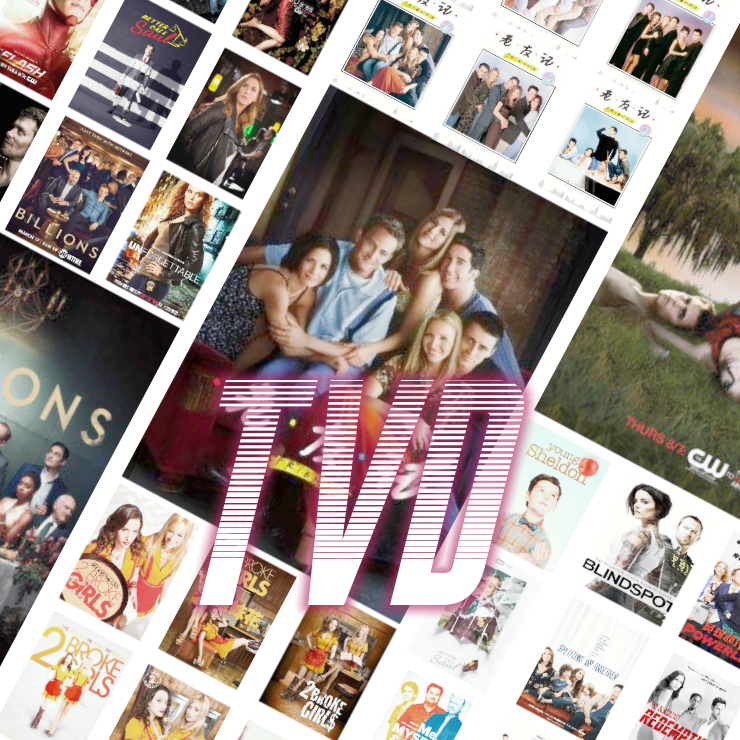
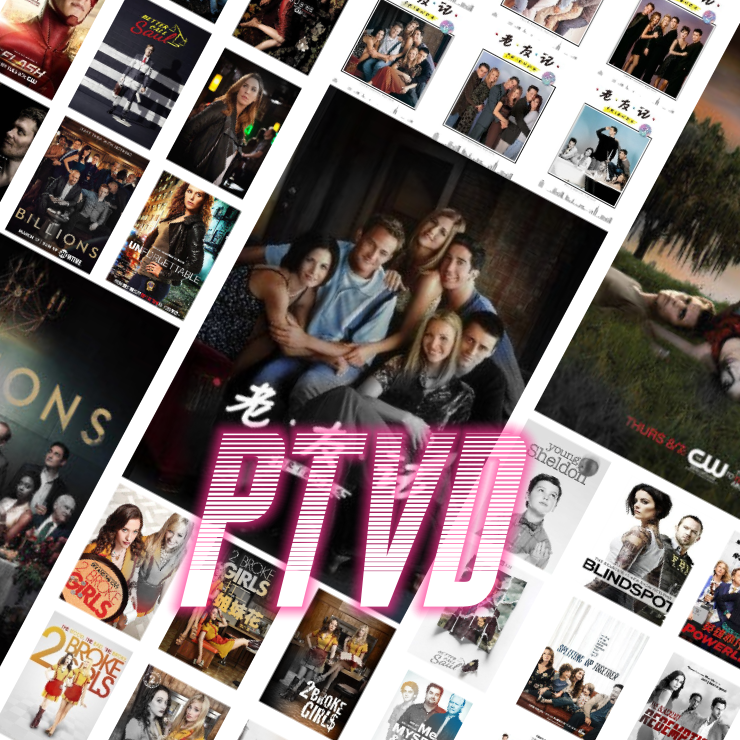
commit

diff --git a/index.html b/index.html
@@ -6,7 +6,7 @@
     <meta name="viewport" content="width=device-width, initial-scale=1, shrink-to-fit=no">
     <meta name="description" content="Start your development with TVD landing page.">
     <meta name="author" content="Chen Li">
-    <title>TencentARC-TVD</title>
+    <title>TencentARC-PTVD</title>
     <!-- font icons -->
     <link rel="stylesheet" href="assets/vendors/themify-icons/css/themify-icons.css">
     <!-- Bootstrap + Meyawo main styles -->
@@ -18,7 +18,7 @@
     <!-- Page Navbar -->
     <nav class="custom-navbar" data-spy="affix" data-offset-top="20">
         <div class="container">
-            <a class="logo" href="#">Tencent ARC</a>
+            <a class="logo" href="#">Tencent ARC & Tencent Video</a>
             <ul class="nav">
                 <li class="item">
                     <a class="link" href="#home">Home</a>
@@ -56,11 +56,12 @@
         <div class="header-content container">
             <h1 class="header-title">
                 <span class="up">HI!</span>
-                <span class="down">Welcome to TVD</span>
+                <span class="down">Welcome to PTVD</span>
             </h1>
             <p class="header-subtitle">A Large-Scale Multimodal Plot-Oriented Story Understanding Dataset</p>
 
-            <button class="btn btn-primary">Visit Our Paper</button>
+            <button class="btn btn-primary" onclick="jump_paper()">Visit Our Paper</button>
+            <script>function jump_paper(){window.open("https://arxiv.org/pdf/2306.14644.pdf")}</script>
         </div>
     </header><!-- end of page header -->
 
@@ -72,11 +73,11 @@
             <div class="about">
                 <div class="about-img-holder">
                     <img src="assets/imgs/fig_banner_tvd.png" class="about-img"
-                        alt="Landing page">
+                         alt="Landing page">
                 </div>
                 <div class="about-caption">
-                    <p class="section-subtitle">What is TVD ?</p>
-                    <h2 class="section-title mb-3">About TVD</h2>
+                    <p class="section-subtitle">What is PTVD ?</p>
+                    <h2 class="section-title mb-3">About PTVD</h2>
                     <p>
                         Art forms such as movies and television (TV) dramas are reflections of the real world, which
                         have attracted much attention from the multimodal learning community recently. However,
@@ -85,10 +86,12 @@
                         mentions situational context; <b>iii.</b> their video clips fail to cover long-form relationship due to
                         short duration. To address these fundamental issues, using 1,106 TV drama episodes and 24,875 informative
                         plot-focused sentences written by professionals, with the help of 449 human annotators, we
-                        constructed TVD, the first plot-oriented multimodal dataset in the cinema domain.
+                        constructed PTVD, the first plot-oriented multimodal dataset in the cinema domain.
                     </p>
-                    <button class="btn-rounded btn btn-outline-primary mt-4" onclick="jump()">Download TVD</button>
-                    <script>function jump(){window.open("https://drive.google.com/drive/folders/1uVe9kndq_Nx7tKBwRY_rhXw675TOmUuI")}</script>
+                    <button class="btn-rounded btn btn-outline-primary mt-4" onclick="jump_g()">Download from google</button>
+                    <script>function jump_g(){window.open("https://drive.google.com/drive/folders/1uVe9kndq_Nx7tKBwRY_rhXw675TOmUuI")}</script>
+                    <button class="btn-rounded btn btn-outline-primary mt-4" onclick="jump_z()">Download from zenodo</button>
+                    <script>function jump_z(){window.open("https://zenodo.org/record/8012075")}</script>
                 </div>
             </div><!-- end of about wrapper -->
         </div><!-- end of container -->
@@ -97,14 +100,14 @@
     <!-- portfolio section -->
     <section class="section" id="portfolio">
         <div class="container text-center">
-            <p class="section-subtitle">What does TVD have ?</p>
+            <p class="section-subtitle">What does PTVD have ?</p>
             <h6 class="section-title mb-6">Dataset Composition</h6>
             <!-- row -->
             <div class="row">
                 <div class="col-md-4">
                     <a href="#" class="portfolio-card">
                         <img src="assets/imgs/fig_vision.png" class="portfolio-card-img"
-                            alt="Landing page">
+                             alt="Landing page">
                         <span class="portfolio-card-overlay">
                             <span class="portfolio-card-caption">
                                 <h3>Vision</h3>
@@ -116,7 +119,7 @@
                 <div class="col-md-4">
                     <a href="#" class="portfolio-card">
                         <img class="portfolio-card-img" src="assets/imgs/fig_text.png" class="img-responsive rounded"
-                            alt="Landing page">
+                             alt="Landing page">
                         <span class="portfolio-card-overlay">
                             <span class="portfolio-card-caption">
                                 <h3>Text</h3>
@@ -128,7 +131,7 @@
                 <div class="col-md-4">
                     <a href="#" class="portfolio-card">
                         <img class="portfolio-card-img" src="assets/imgs/fig_metadata.png" class="img-responsive rounded"
-                            alt="Landing page">
+                             alt="Landing page">
                         <span class="portfolio-card-overlay">
                             <span class="portfolio-card-caption">
                                 <h3>Metadata</h3>
@@ -199,7 +202,7 @@
     <!-- service section -->
     <section class="section" id="service">
         <div class="container text-center">
-            <p class="section-subtitle">What can TVD Do ?</p>
+            <p class="section-subtitle">What can PTVD Do ?</p>
             <h6 class="section-title mb-6">Tasks</h6>
             <!-- row -->
             <div class="row">
@@ -274,13 +277,13 @@
     <section class="section" id="blog">
         <!-- container -->
         <div class="container text-center">
-            <p class="section-subtitle">How to use TVD?</p>
+            <p class="section-subtitle">How to use PTVD?</p>
             <h6 class="section-title mb-6">Baseline</h6>
             <!-- blog-wrapper -->
             <div class="blog-card">
                 <div class="blog-card-header">
-                    <img src="assets/imgs/fig_framework.png" class="blog-card-img"
-                        alt="Download free bootstrap 4 landing page, free boootstrap 4 templates, Download free bootstrap 4.1 landing page, free boootstrap 4.1.1 templates, meyawo Landing page">
+                    <img src="assets/imgs/fig_model.png" class="blog-card-img"
+                         alt="Download free bootstrap 4 landing page, free boootstrap 4 templates, Download free bootstrap 4.1 landing page, free boootstrap 4.1.1 templates, meyawo Landing page">
                 </div>
                 <div class="blog-card-body">
                     <h6 class="blog-card-title">Benchmark</h6>
@@ -348,17 +351,17 @@
                     <div class="testimonial-card">
                         <div class="testimonial-card-img-holder">
                             <img src="assets/imgs/bibtex.png" class="testimonial-card-img"
-                                alt="Download free bootstrap 4 landing page, free boootstrap 4 templates, Download free bootstrap 4.1 landing page, free boootstrap 4.1.1 templates, meyawo Landing page">
+                                 alt="Download free bootstrap 4 landing page, free boootstrap 4 templates, Download free bootstrap 4.1 landing page, free boootstrap 4.1.1 templates, meyawo Landing page">
                         </div>
                         <div class="testimonial-card-body">
                             <p class="testimonial-card-subtitle">{</br>
-                            &nbsp;&nbsp;&nbsp;&nbsp;&nbsp;&nbsp;&nbsp;&nbsp;@article{li2023taggpt,</br>
-                            &nbsp;&nbsp;&nbsp;&nbsp;&nbsp;&nbsp;&nbsp;&nbsp;title={TagGPT: Large Language Models are Zero-shot Multimodal Taggers},</br>
-                            &nbsp;&nbsp;&nbsp;&nbsp;&nbsp;&nbsp;&nbsp;&nbsp;author={====================================================================},&nbsp;&nbsp;&nbsp;&nbsp;&nbsp;&nbsp;&nbsp;&nbsp;&nbsp;&nbsp;&nbsp;&nbsp;&nbsp;&nbsp;&nbsp;&nbsp;&nbsp;&nbsp;
-                                &nbsp;&nbsp;&nbsp;&nbsp;&nbsp;&nbsp;&nbsp;&nbsp;&nbsp;&nbsp;&nbsp;&nbsp;&nbsp;&nbsp;&nbsp;&nbsp;&nbsp;&nbsp;&nbsp;&nbsp;&nbsp;&nbsp;&nbsp;&nbsp;&nbsp;&nbsp;&nbsp;&nbsp;&nbsp;&nbsp;&nbsp;&nbsp;&nbsp;&nbsp;&nbsp;&nbsp;&nbsp;&nbsp;&nbsp;&nbsp;&nbsp;&nbsp;&nbsp;&nbsp;&nbsp;
-                                &nbsp;&nbsp;&nbsp;&nbsp;&nbsp;&nbsp;&nbsp;&nbsp;&nbsp;&nbsp;&nbsp;&nbsp;&nbsp;&nbsp;</br>
-                            &nbsp;&nbsp;&nbsp;&nbsp;&nbsp;&nbsp;&nbsp;&nbsp;journal={arXiv preprint arXiv:2304.03022},</br>
-                            &nbsp;&nbsp;&nbsp;&nbsp;&nbsp;&nbsp;&nbsp;&nbsp;year={2023}</br>
+                            &nbsp;&nbsp;&nbsp;&nbsp;&nbsp;&nbsp;&nbsp;&nbsp;@article{li2023ptvd,</br>
+                            &nbsp;&nbsp;&nbsp;&nbsp;&nbsp;&nbsp;&nbsp;&nbsp;title={PTVD: A Large-Scale Plot-Oriented Multimodal Dataset Based on Television Dramas},</br>
+                            &nbsp;&nbsp;&nbsp;&nbsp;&nbsp;&nbsp;&nbsp;&nbsp;author={Chen Li, Xutan Peng, Teng Wang, Yixiao Ge, Mengyang Liu, Xuyuan Xu, Yexin Wang, Ying Shan},
+                                &nbsp;&nbsp;&nbsp;&nbsp;&nbsp;&nbsp;&nbsp;&nbsp;</br>
+<!--                            &nbsp;&nbsp;&nbsp;&nbsp;&nbsp;&nbsp;&nbsp;&nbsp;journal={arXiv preprint arXiv:2304.03022},</br>-->
+                            &nbsp;&nbsp;&nbsp;&nbsp;&nbsp;&nbsp;&nbsp;&nbsp;year={2023},</br>
+                                    &nbsp;&nbsp;&nbsp;&nbsp;&nbsp;&nbsp;eprint={2306.14644}</br>
                             }</p>
 <!--                            <h6 class="testimonial-card-title">Emily Reb</h6>-->
                         </div>

diff --git a/assets/css/meyawo.css b/assets/css/meyawo.css
@@ -11637,7 +11637,7 @@ pre .code {
 }
 
 .custom-navbar .logo {
-  font-size: calc(20px + (30 - 20) * ((100vw - 300px) / (1300 - 300)));
+  font-size: calc(10px + (30 - 20) * ((100vw - 300px) / (1300 - 300)));
   text-decoration: none;
   color: #fff;
 }
